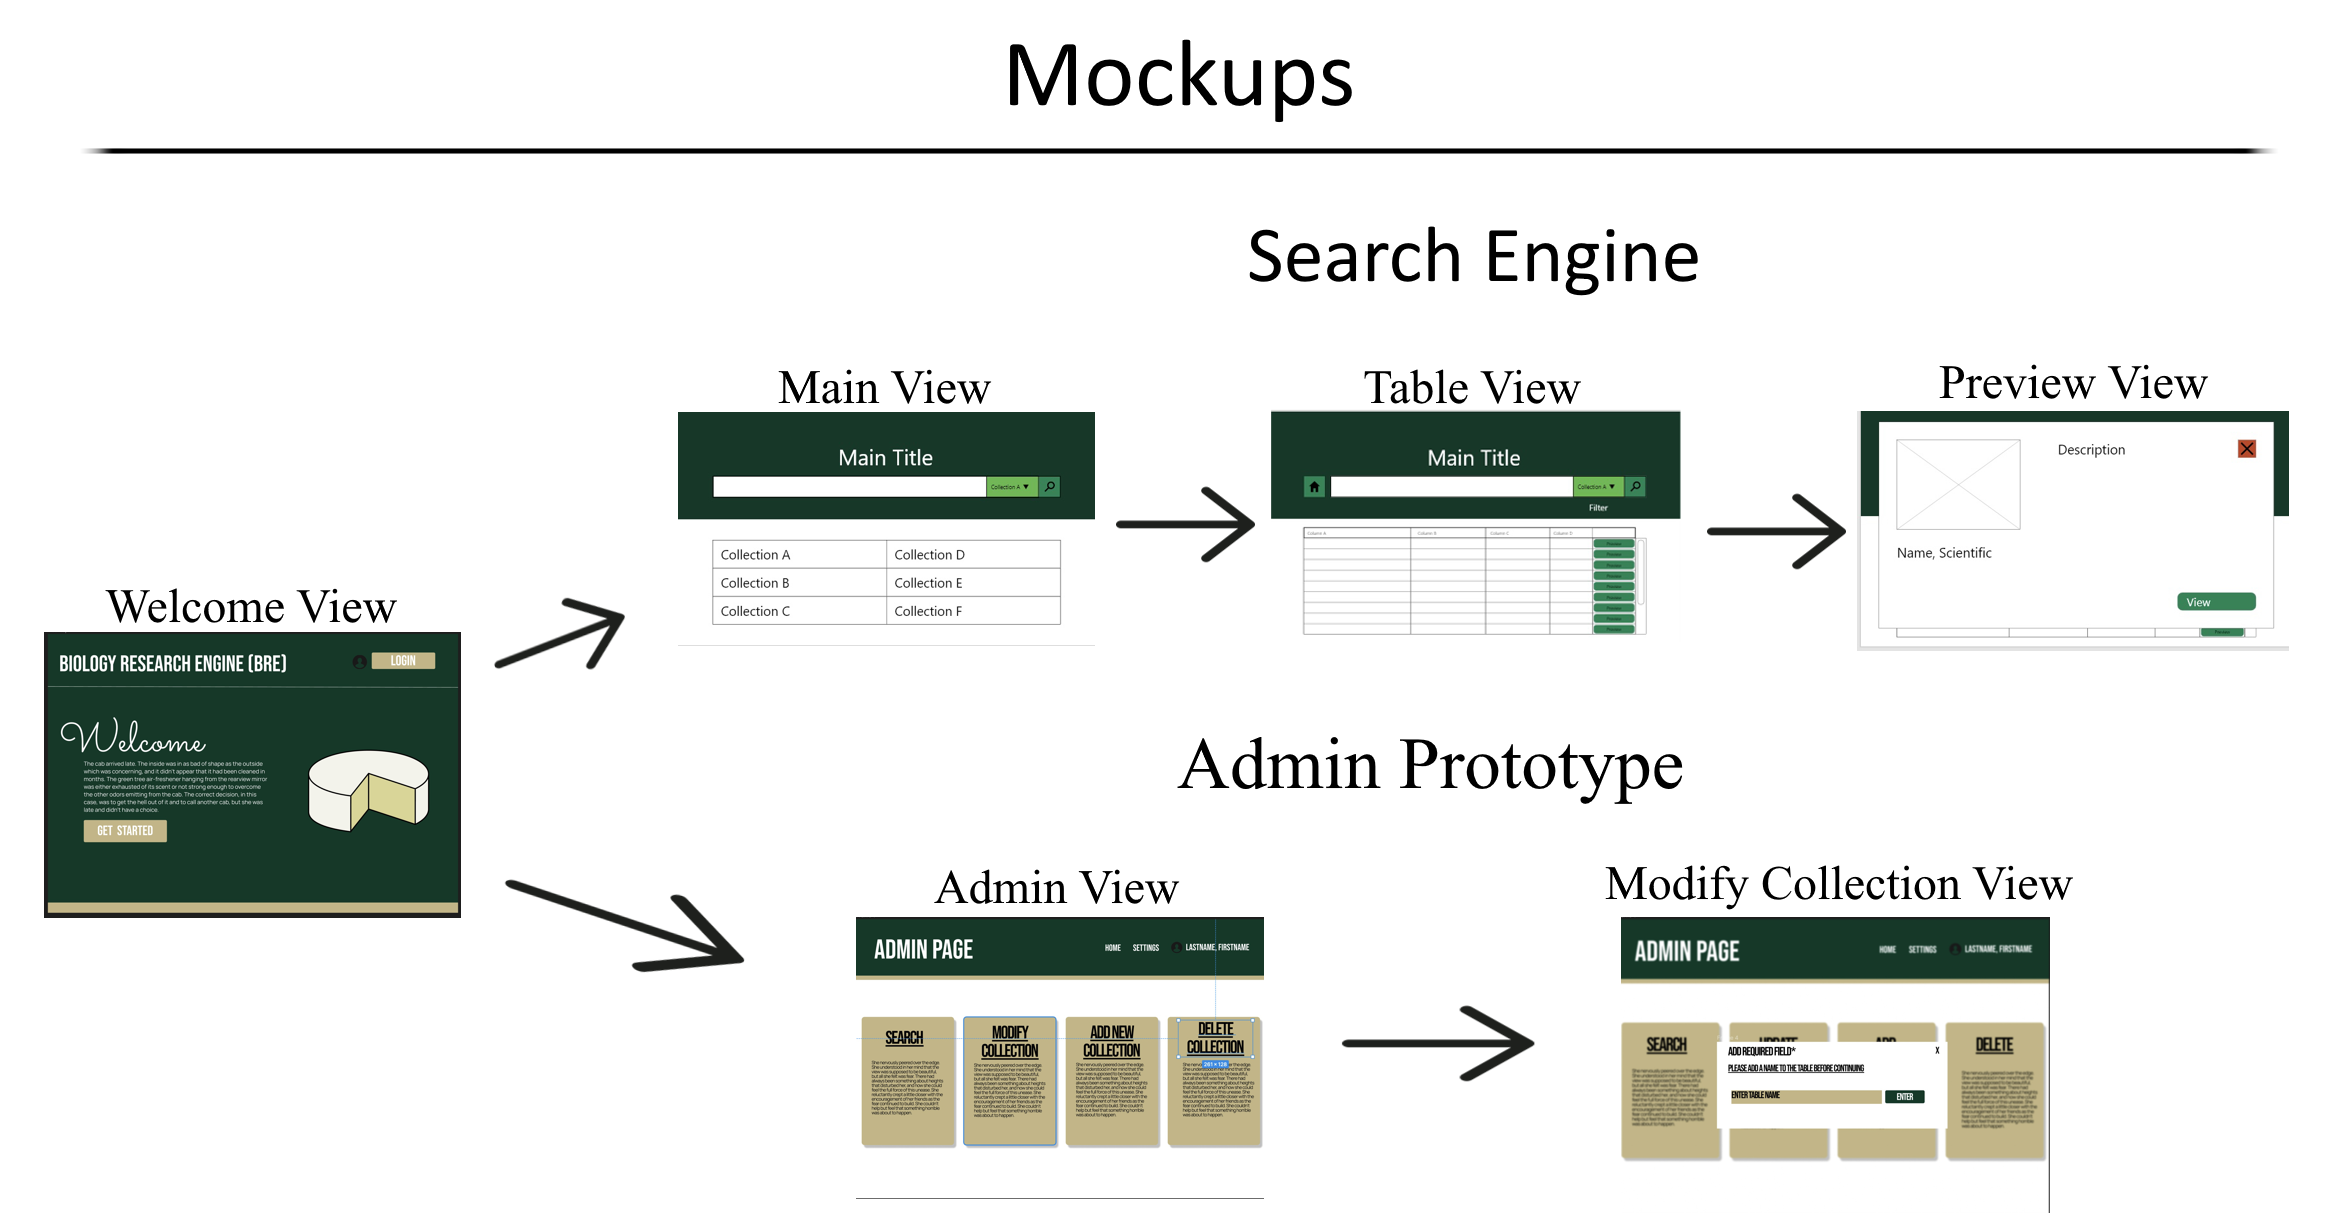
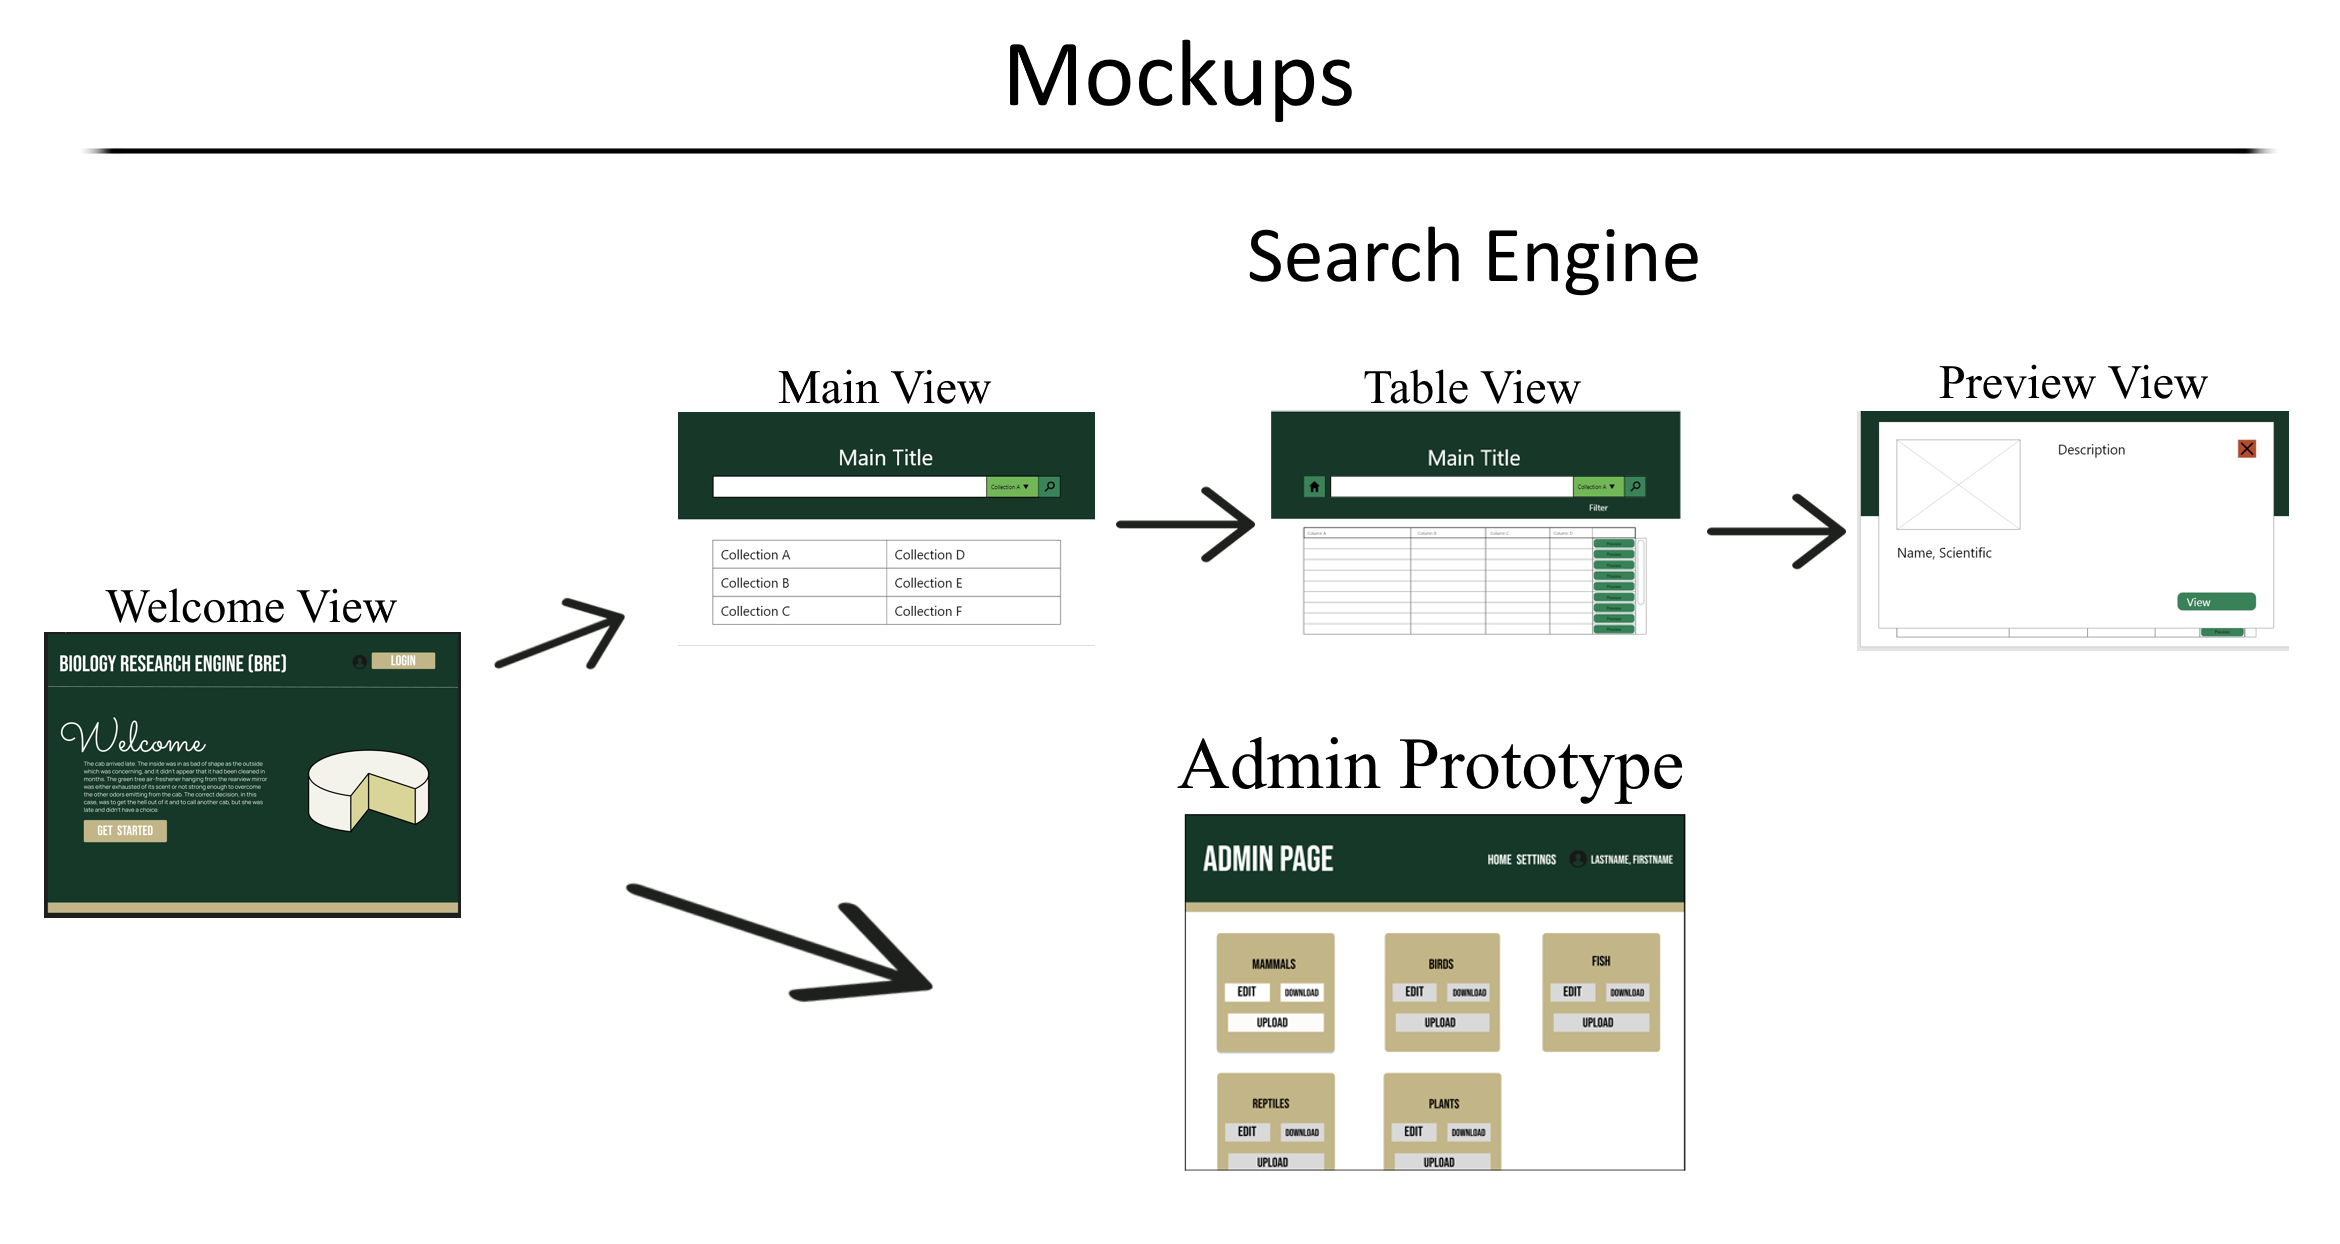
updated with new mockup

diff --git a/content/documentation/mockup-timeline.md b/content/documentation/mockup-timeline.md
@@ -24,23 +24,15 @@ draft: false
 
 ---
 
-## Admin Page Mockups | Sprint 4
-
-#### Welcome View
+## Welcome View Mockup | Sprint 4
 
 <center><img src="/img/mockups/login prototype1.png" alt="test"/></center>
 
 ---
 
-#### Admin View
+## Admin View Mockup | Sprint 6
 
-<center><img src="/img/mockups/login prototype2.png" alt="test"/></center>
-
----
-
-#### Modify Collection View
-
-<center><img src="/img/mockups/login prototype3.png" alt="test"/></center>
+<center><img src="/img/mockups/admin prototype.png" alt="test"/></center>
 
 ---
 
